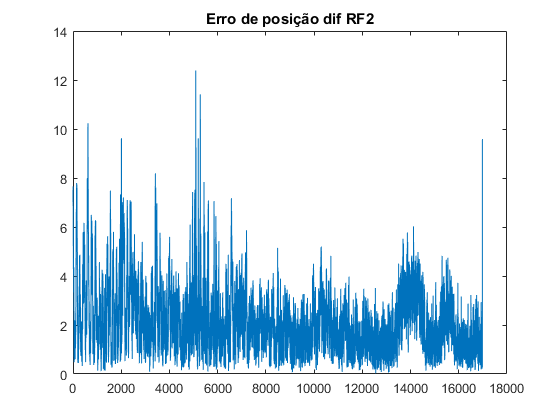
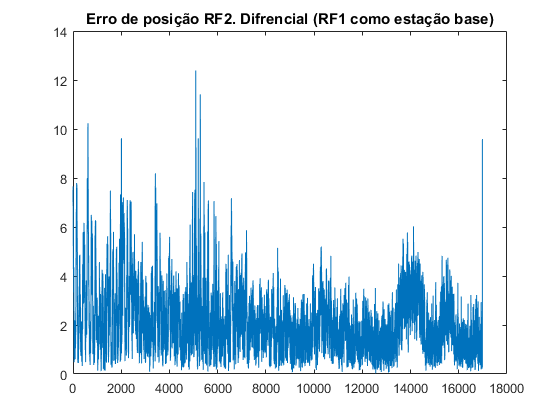
now for real

Changed region(s): [[0.1518, 0.031, 0.8804, 0.0619]]

diff --git a/src/teste_diff.m b/src/teste_diff.m
@@ -10,8 +10,8 @@ const.Omegadot_e = 7.2921151467e-5;
 addpath('./test_functions/');
 addpath('./generic_functions/');
 warning('off','backtrace');
-const.RF2 = [4918548.05800941 -791216.081612259 3969771.54527795];%pos da base station 
-const.RF1 = [4918540.41089466 -791215.369841806 3969777.56137549];
+const.RF1 = [4918548.05800941 -791216.081612259 3969771.54527795];%pos da base station 
+const.RF2 = [4918540.41089466 -791215.369841806 3969777.56137549];
 % const.RF3 = [4918524.42 -791213.5 3969762.24];
 % const.RF5 = [4918534.82 -791211.81 3969750.68];%rf5
 % const.RF6 = [4918534.82 -791211.81 3969750.68];%rf6 d file
